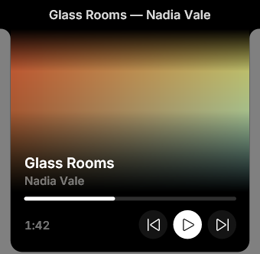
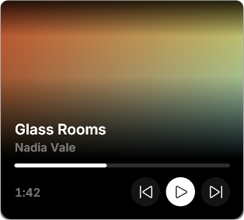
Settings: look pictures show each panel on its own, on the snapshots' gray
The look tiles' pictures are now each widget's panel cut from its bar, as
if detached (a widget can sit on a top bar or a dock): corners rounded all
round, see-through around it, on the same gray the snapshots are drawn on
(not the darker blue-gray box). The tasks' looks stay as the dock they are.
The launcher's centred look has a picture too: the snapshot tool draws its
box (Centre::snapshot, sharing the drawing with show).

diff --git a/src/settings/settings.css b/src/settings/settings.css
@@ -808,7 +808,8 @@ body.view-setup #toast, body.view-notes #toast { bottom: 76px; }
 .look-tile:focus-visible { outline: 1.5px solid var(--fg); }
 .look-tile b { font-size: 13px; }
 .look-tile small { color: var(--faint); font-size: 11.5px; line-height: 1.35; }
-.look-pic { display: flex; align-items: flex-start; justify-content: center; height: 96px; margin-bottom: 4px; border-radius: 8px; overflow: hidden; background: #3a4656; }
+/* The same gray as the snapshots' ground (tools/look_tiles.py), so the tasks' docks blend in. */
+.look-pic { display: flex; align-items: center; justify-content: center; height: 120px; padding: 10px; margin-bottom: 4px; border-radius: 8px; overflow: hidden; background: #808080; }
 .look-pic:empty { display: none; }
 .look-pic img { max-width: 100%; max-height: 100%; object-fit: contain; }
 

diff --git a/tools/look_tiles.py b/tools/look_tiles.py
@@ -1,6 +1,7 @@
 """The settings' look pickers' pictures: every widget look drawn by Kasumi itself
 (--native-snapshot, from the shipped default config with one look picked and sample
-data), cropped to the widget and its panel, scaled down into public/looks/.
+data), its panel cut from the bar (as if on its own, corners rounded, see-through around
+it), scaled down into public/looks/.
 
     python -I tools/look_tiles.py
 
@@ -30,7 +31,7 @@ LOOKS = {
     "weather": ("top", ["", "sky", "curve", "week"], "panel"),
     "menu": ("top", ["", "grid", "strip", "greeting"], "panel"),
     "quick": ("bottom", ["", "blocks", "rings", "list"], "panel"),
-    "launcher": ("bottom", ["", "grid", "prompt"], "search"),
+    "launcher": ("bottom", ["", "centre", "grid", "prompt"], "search"),
     "tasks": ("bottom", ["", "labels", "dots"], "open"),  # dots: resting (closed)
 }
 
@@ -129,25 +130,74 @@ def read_png(path):
     return w, h, bpp, rows
 
 
-def crop_box(path, top):
-    """Where the picture differs from the snapshot's ground, near the middle of the screen
-    (a top bar: as wide as what hangs under the bar, the bar itself across that)."""
+def spans(path):
+    """Each row's drawn span (first and last x that isn't the snapshot's ground), the
+    picture's size and its ground colour."""
     w, h, bpp, rows = read_png(path)
     ground = rows[h // 2][:3]
-    xs, ys = [], []
-    for y in range(0, h, 2):
+    out = []
+    for y in range(h):
         r = rows[y]
-        for x in range(max(w // 2 - 420, 0), min(w // 2 + 420, w), 2):
-            px = r[x * bpp:x * bpp + 3]
-            if bpp == 4 and r[x * bpp + 3] == 0:
-                continue
-            if sum(abs(px[k] - ground[k]) for k in range(3)) > 30:
-                if not top or y > 44:
-                    xs.append(x)
-                ys.append(y)
-    if not xs:
+        xs = [x for x in range(0, w, 1) if sum(abs(r[x * bpp + k] - ground[k]) for k in range(3)) > 30]
+        out.append((xs[0], xs[-1]) if xs else None)
+    return w, h, out, ground
+
+
+def detached_box(path, top):
+    """The panel alone, cut where it meets its bar: x0, y0, x1, y1 (inclusive) and its
+    corners' radius. The panel's body is the tallest run of rows of one width; past its
+    free end (under a top bar, above a dock) its rounded corners narrow it."""
+    w, h, sp, _ = spans(path)
+    width = lambda s: s[1] - s[0] if s else 0
+    best, run = (0, 0), None
+    for y in range(h + 1):
+        s = sp[y] if y < h else None
+        if run and s and abs(width(s) - width(sp[run[0]])) <= 2 and abs(s[0] - sp[run[0]][0]) <= 2:
+            run = (run[0], y)
+            continue
+        if run and run[1] - run[0] > best[1] - best[0]:
+            best = run
+        run = (y, y) if s else None
+    y0, y1 = best
+    x0, x1 = sp[y0]
+    # The free end: rows narrowing (its corners) past the run.
+    step = 1 if top else -1
+    end, radius = (y1 if top else y0), 0
+    y = end + step
+    while 0 <= y < h and sp[y] and sp[y][0] > sp[y - step][0] - 1 and sp[y][0] - x0 < 40:
+        radius += 1
+        y += step
+    if top:
+        y1 = end + radius
+    else:
+        y0 = end - radius
+    return x0, y0, x1, y1, max(radius, 8)
+
+
+def crop_box(path):
+    """Around everything drawn near the middle of the screen (the dock with its tasks)."""
+    w, h, sp, _ = spans(path)
+    ys = [y for y in range(h) if sp[y] and sp[y][1] - sp[y][0] < w - 40]
+    xs = [x for y in ys for x in sp[y]]
+    if not ys:
         return None
-    return max(min(xs) - 14, 0), max(min(ys) - 2, 0), min(max(xs) + 14, w), min(max(ys) + 14, h)
+    return max(min(xs) - 14, 0), max(min(ys) - 2, 0), min(max(xs) + 14, w - 1), min(max(ys) + 14, h - 1)
+
+
+def save(src, target, box=None, radius=0):
+    """`src` cut to `box` (corners rounded off, see-through), at most 300 x 220."""
+    vf = []
+    if box:
+        x0, y0, x1, y1 = box
+        vf.append(f"crop={x1 - x0 + 1}:{y1 - y0 + 1}:{x0}:{y0}")
+    vf.append("format=rgba")
+    if radius:
+        r = radius
+        d = f"hypot(max(max({r}-X\\,X-(W-1-{r}))\\,0)\\,max(max({r}-Y\\,Y-(H-1-{r}))\\,0))"
+        vf.append(f"geq=r='r(X,Y)':g='g(X,Y)':b='b(X,Y)':a='alpha(X,Y)*clip({r}-{d}+0.5\\,0\\,1)'")
+    vf.append("scale='min(300,iw)':'min(220,ih)':force_original_aspect_ratio=decrease")
+    subprocess.run(["ffmpeg", "-loglevel", "error", "-y", "-i", src, "-vf", ",".join(vf), target], check=True)
+    print(target)
 
 
 for widget, (bar, styles, shot) in LOOKS.items():
@@ -167,16 +217,19 @@ for widget, (bar, styles, shot) in LOOKS.items():
         if widget == "tasks" and style == "dots":
             name = f"-{bar}-closed.png"
         if widget == "launcher":
-            name = {"grid": f"-{bar}-launcher.png", "prompt": f"-{bar}-launcher-partial.png"}.get(style, name)
+            name = {"grid": f"-{bar}-launcher.png", "prompt": f"-{bar}-launcher-partial.png", "centre": f"-{bar}-launcher-centre.png"}.get(style, name)
         src = os.path.join(snap, (prefix or "") + name)
-        box = crop_box(src, bar == "top") if prefix and os.path.exists(src) else None
         target = os.path.join(out_dir, f"{widget}-{style or 'classic'}.png")
-        if not box:
+        if not (prefix and os.path.exists(src)):
             print("no picture:", widget, style or "classic", src)
             continue
-        x0, y0, x1, y1 = box
-        if bar == "top":
-            y0 = 0
-        subprocess.run(["ffmpeg", "-loglevel", "error", "-y", "-i", src, "-vf", f"crop={x1 - x0}:{y1 - y0}:{x0}:{y0},scale='min(260,iw)':-2", target], check=True)
-        print(target)
+        if style == "centre":
+            # Already on its own: drawn without a bar, see-through around it.
+            save(src, target)
+        elif shot == "open" or widget == "tasks":
+            # The tasks' look is the dock itself: as it sits.
+            save(src, target, crop_box(src))
+        else:
+            x0, y0, x1, y1, r = detached_box(src, bar == "top")
+            save(src, target, (x0, y0, x1, y1), r)
 shutil.rmtree(work, ignore_errors=True)

diff --git a/src-tauri/src/native/centre.rs b/src-tauri/src/native/centre.rs
@@ -48,9 +48,8 @@ impl Centre {
         Centre { hwnd: None, veil: None, dib: None, panel: LauncherPanel::new(opts, true), scale: 1.0, dim: opts.flag("dim") != Some(false) }
     }
 
-    /// Draws the box (again) on `mon`, the screen dimmed behind it.
-    pub fn show(&mut self, gfx: &Gfx, look: &Look, opts: &Opts, mon: &Monitor) -> Result<()> {
-        let scale = mon.scale as f32;
+    /// Draws the box into its bitmap at `scale`; its size in device px.
+    fn paint(&mut self, gfx: &Gfx, look: &Look, opts: &Opts, scale: f32) -> Result<(i32, i32)> {
         self.scale = scale;
         // Its list hangs under its field, whichever edge the bar is on.
         let mut look = look.clone();
@@ -59,6 +58,28 @@ impl Centre {
         let (cw, ch) = self.panel.size(&cx);
         let (w, h) = (cw + 2.0 * PAD, ch + 2.0 * PAD);
         let (w_px, h_px) = ((w * scale).ceil() as i32, (h * scale).ceil() as i32);
+        if self.dib.as_ref().is_none_or(|d| d.w < w_px || d.h < h_px) {
+            self.dib = Some(Dib::new(w_px.max(64), h_px.max(64))?);
+        }
+        let dib = self.dib.as_ref().unwrap();
+        gfx.begin(dib.dc, w_px, h_px, scale)?;
+        gfx.fill_round(rect(0.0, 0.0, w, h), RADIUS, with_alpha(look.bg, look.opacity.max(0.92)));
+        self.panel.draw(&cx, PAD, PAD, 1.0);
+        gfx.end()?;
+        Ok((w_px, h_px))
+    }
+
+    /// Off screen (snapshot.rs): its pixels (premultiplied BGRA, `stride` px a row),
+    /// width and height.
+    pub fn snapshot(&mut self, gfx: &Gfx, look: &Look, opts: &Opts, scale: f32) -> Option<(Vec<u8>, i32, i32, i32)> {
+        let (w, h) = self.paint(gfx, look, opts, scale).ok()?;
+        let dib = self.dib.as_ref()?;
+        Some((dib.pixels().to_vec(), w, h, dib.w))
+    }
+
+    /// Draws the box (again) on `mon`, the screen dimmed behind it.
+    pub fn show(&mut self, gfx: &Gfx, look: &Look, opts: &Opts, mon: &Monitor) -> Result<()> {
+        let (w_px, h_px) = self.paint(gfx, look, opts, mon.scale as f32)?;
         if self.dim {
             self.show_veil(mon)?;
         }
@@ -85,14 +106,7 @@ impl Centre {
                 h
             }
         };
-        if self.dib.as_ref().is_none_or(|d| d.w < w_px || d.h < h_px) {
-            self.dib = Some(Dib::new(w_px.max(64), h_px.max(64))?);
-        }
         let dib = self.dib.as_ref().unwrap();
-        gfx.begin(dib.dc, w_px, h_px, scale)?;
-        gfx.fill_round(rect(0.0, 0.0, w, h), RADIUS, with_alpha(look.bg, look.opacity.max(0.92)));
-        self.panel.draw(&cx, PAD, PAD, 1.0);
-        gfx.end()?;
         let pos = POINT { x: mon.left + (mon.width() - w_px) / 2, y: mon.top + ((mon.bottom - mon.top) as f32 * TOP) as i32 };
         let blend = BLENDFUNCTION { BlendOp: AC_SRC_OVER as u8, BlendFlags: 0, SourceConstantAlpha: 255, AlphaFormat: AC_SRC_ALPHA as u8 };
         unsafe {

diff --git a/src-tauri/src/native/snapshot.rs b/src-tauri/src/native/snapshot.rs
@@ -128,7 +128,7 @@ pub fn run(args: &[String]) {
                 let apps = ["Code", "Discord", "Spotify", "Steam", "Calculator", "Firefox", "Notepad", "Terminal"];
                 let mut list: Vec<Value> = apps.iter().map(|a| serde_json::json!({ "id": format!("app:{a}"), "name": a })).collect();
                 list.push(serde_json::json!({ "id": "ms-settings:personalization-background", "name": "Background", "keys": "wallpaper desktop picture slideshow" }));
-                surface.data(&gfx, "launcher:apps", &Value::Array(list));
+                surface.data(&gfx, "launcher:apps", &Value::Array(list.clone()));
                 // A name, a sum (with [widgets.launcher] calculator), a Settings page's search
                 // word (with [widgets.launcher] settings) and an app with open windows (with
                 // [widgets.launcher] windows and `tasks` in --data).
@@ -147,6 +147,16 @@ pub fn run(args: &[String]) {
                     if surface.render(&gfx).is_ok() {
                         let (px, w, h) = surface.pixels();
                         save_png(&dir.join(format!("{label}-launcher-{shot}.png")), px, w, h);
+                    }
+                    // The centred launcher ([widgets.launcher] style = "centre"): its box alone.
+                    if shot == "search" && super::widgets::launcher::centred() {
+                        let opts = surface.launcher_opts();
+                        let mut c = super::centre::Centre::new(&opts);
+                        super::widgets::Panel::data(&mut c.panel, "launcher:apps", &Value::Array(list.clone()));
+                        if let Some((px, w, h, stride)) = c.snapshot(&gfx, surface.look(), &opts, m.scale as f32) {
+                            let rows: Vec<u8> = (0..h as usize).flat_map(|y| px[y * stride as usize * 4..(y * stride as usize + w as usize) * 4].to_vec()).collect();
+                            save_png(&dir.join(format!("{label}-launcher-centre.png")), &rows, w, h);
+                        }
                     }
                     super::widgets::launcher::set_open(false, &label);
                 }
